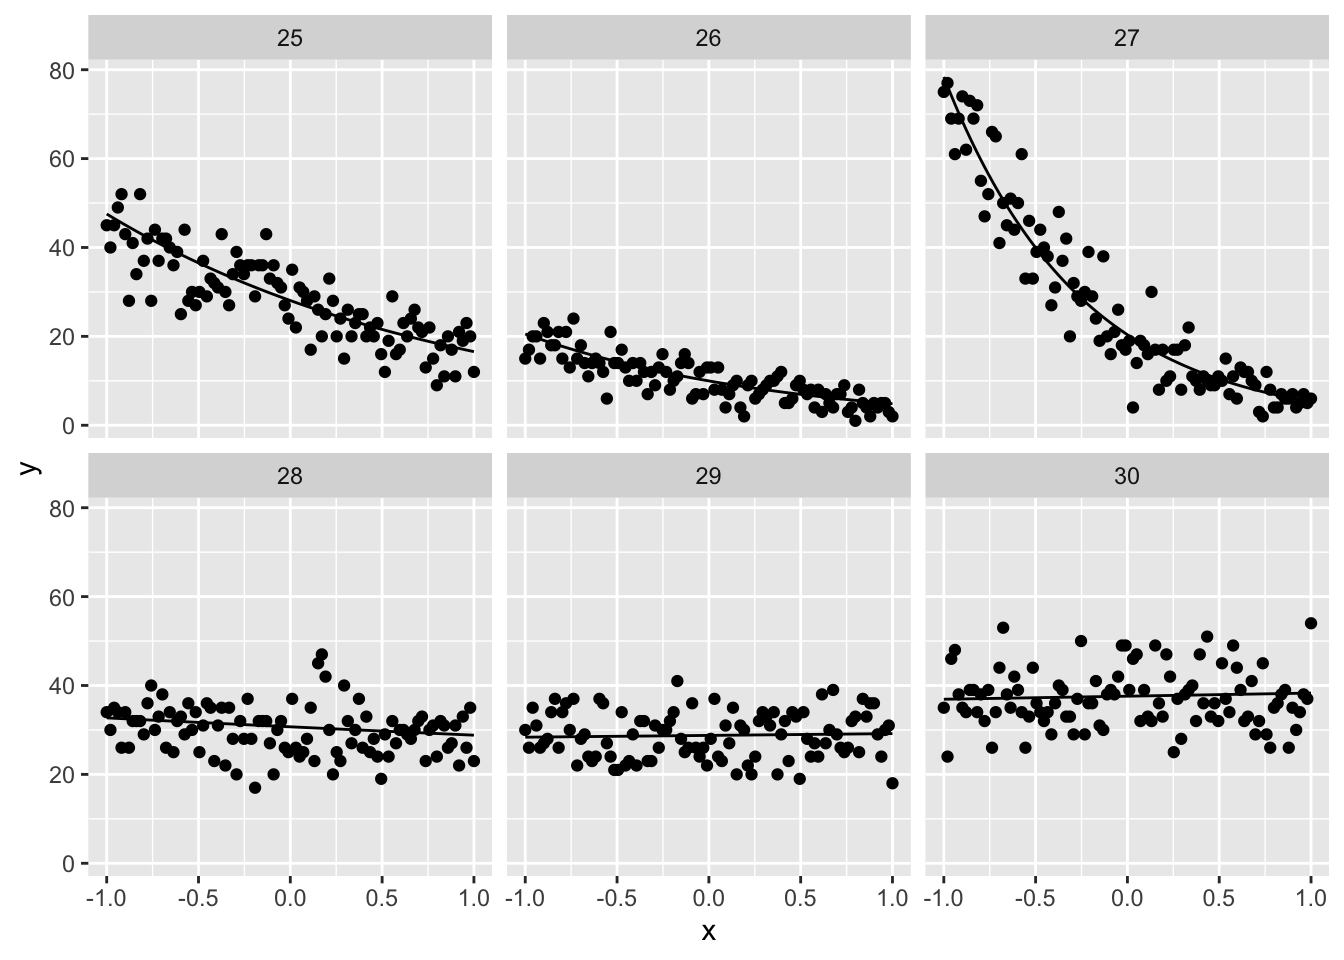
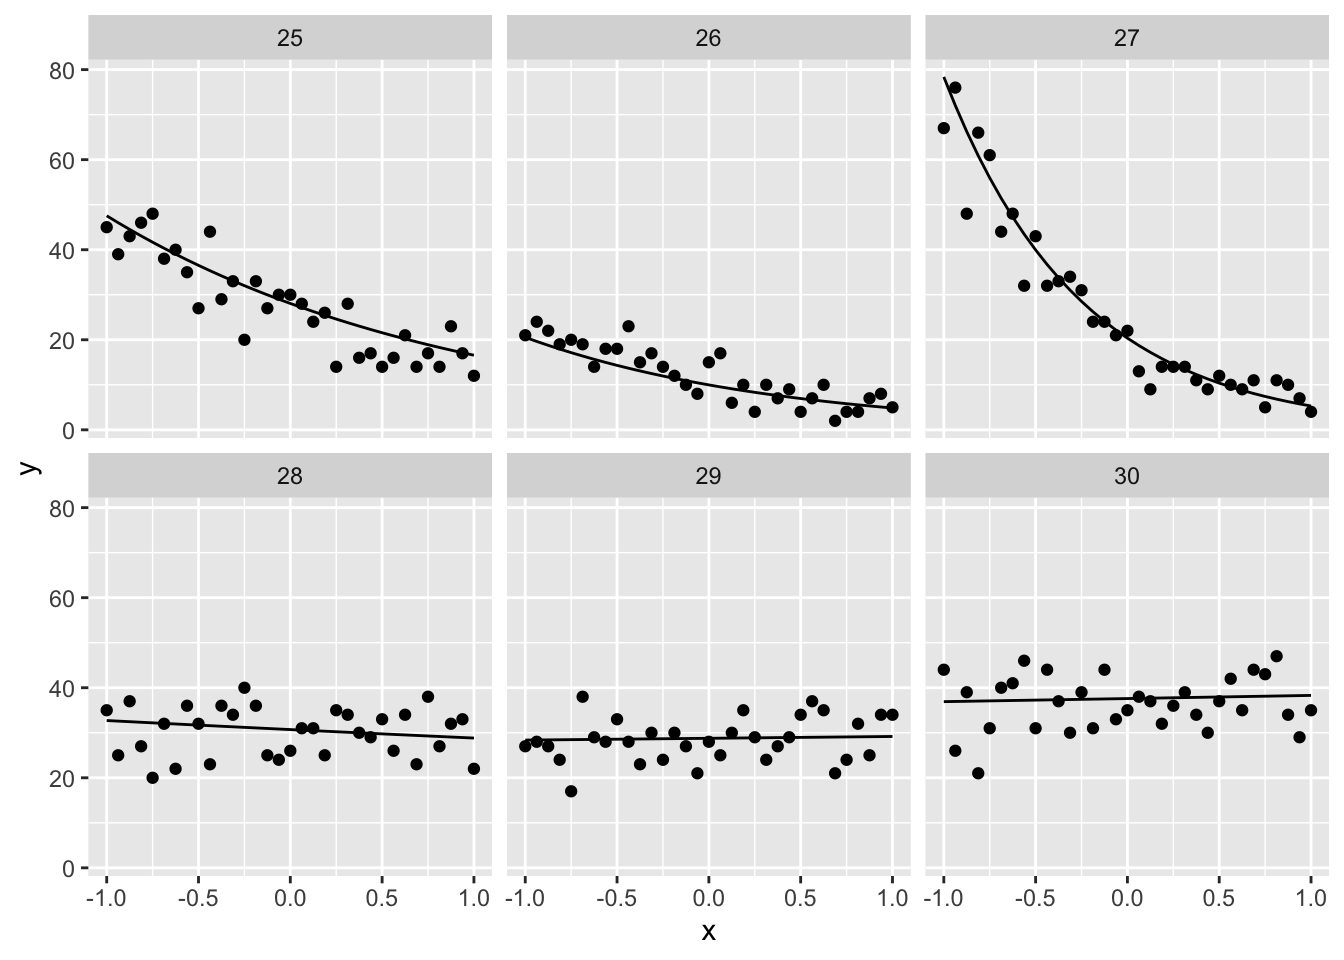
decreasing sample size per dataset, increasing number of datasets

diff --git a/index.html b/index.html
@@ -139,14 +139,16 @@ code span.wa { color: #60a0b0; font-weight: bold; font-style: italic; } /* Warni
 <p>to create a workflow for validating brms models using a targets pipeline</p>
 <p>the idea is to use the tools already in brms and <code>targets</code> to automate this useful and common task.</p>
 <ul>
-<li>define a model using <code>brms</code> syntax</li>
+<li>set up a model formula using <code>brms</code> syntax.</li>
+<li>define the priors using <code>brms</code> syntax</li>
 <li>simulate out of the prior using <code>brms</code></li>
-<li>for each (of some sample of) prior simulation, fit the model</li>
-<li>does the parameter estimate cover the real value?</li>
+<li>for each (of some sample of) prior simulation, fit the model using <code>targets</code> dynamic branching</li>
+<li>calculate the proportion of simulated datasets where the model was able to recover parameters</li>
+<li>put results in a markdown document with <code>tarchetypes::tar_quarto</code></li>
 </ul>
 </section>
-<section id="plotting" class="level2">
-<h2 class="anchored" data-anchor-id="plotting">plotting</h2>
+<section id="results" class="level2">
+<h2 class="anchored" data-anchor-id="results">Results</h2>
 <p>here is an example of some simulated datasets</p>
 <div class="cell">
 <div class="sourceCode cell-code" id="cb2"><pre class="sourceCode r code-with-copy"><code class="sourceCode r"><span id="cb2-1"><a href="#cb2-1" aria-hidden="true" tabindex="-1"></a><span class="fu">tar_load</span>(prior_predictive_draws)</span>
@@ -178,11 +180,11 @@ code span.wa { color: #60a0b0; font-weight: bold; font-style: italic; } /* Warni
 <tbody>
 <tr class="odd">
 <td style="text-align: left;">b_Intercept</td>
-<td style="text-align: right;">0.95</td>
+<td style="text-align: right;">0.8415842</td>
 </tr>
 <tr class="even">
 <td style="text-align: left;">b_x</td>
-<td style="text-align: right;">0.95</td>
+<td style="text-align: right;">0.9207921</td>
 </tr>
 </tbody>
 </table>
